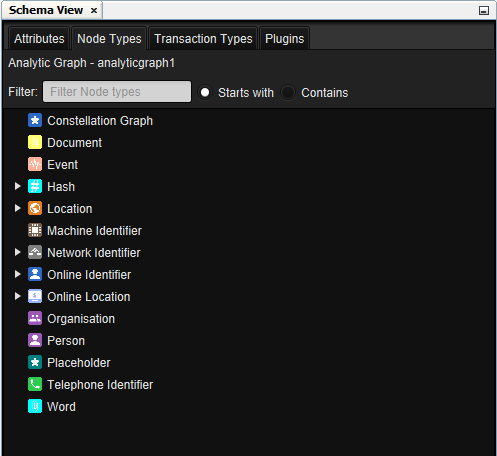
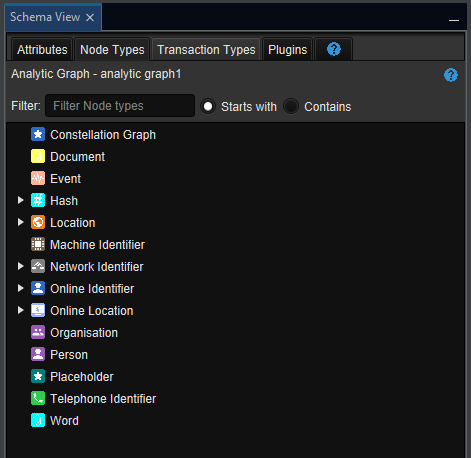
Update Schema View help pages

Changed region(s): [[0.0, 0.0, 1.0, 1.0]]

diff --git a/CoreSchemaView/src/au/gov/asd/tac/constellation/views/schemaview/providers/TransactionTypeNodeProvider.java b/CoreSchemaView/src/au/gov/asd/tac/constellation/views/schemaview/providers/TransactionTypeNodeProvider.java
@@ -24,6 +24,7 @@ import au.gov.asd.tac.constellation.graph.schema.concept.SchemaConcept;
 import au.gov.asd.tac.constellation.graph.schema.type.SchemaTransactionType;
 import au.gov.asd.tac.constellation.graph.schema.type.SchemaTransactionTypeUtilities;
 import au.gov.asd.tac.constellation.utilities.text.SeparatorConstants;
+import static au.gov.asd.tac.constellation.views.schemaview.providers.HelpIconProvider.populateHelpIconWithCaption;
 import java.util.ArrayList;
 import java.util.Collections;
 import java.util.List;
@@ -73,6 +74,7 @@ public class TransactionTypeNodeProvider implements SchemaViewNodeProvider, Grap
     private final HBox detailsView;
     private final RadioButton startsWithRb;
     private final TextField filterText;
+    private final HBox schemaLabelAndHelp;
 
     public TransactionTypeNodeProvider() {
         schemaLabel = new Label(SeparatorConstants.HYPHEN);
@@ -80,6 +82,7 @@ public class TransactionTypeNodeProvider implements SchemaViewNodeProvider, Grap
         treeView = new TreeView<>();
         transactionTypes = new ArrayList<>();
         detailsView = new HBox();
+        schemaLabelAndHelp = new HBox();
         detailsView.setPadding(new Insets(5));
         startsWithRb = new RadioButton("Starts with");
         filterText = new TextField();
@@ -167,7 +170,7 @@ public class TransactionTypeNodeProvider implements SchemaViewNodeProvider, Grap
         headerBox.setAlignment(Pos.CENTER_LEFT);
         headerBox.setPadding(new Insets(5));
 
-        final VBox box = new VBox(schemaLabel, headerBox, treeView);
+        final VBox box = new VBox(schemaLabelAndHelp, headerBox, treeView);
         VBox.setVgrow(treeView, Priority.ALWAYS);
         return box;
     }
@@ -208,6 +211,8 @@ public class TransactionTypeNodeProvider implements SchemaViewNodeProvider, Grap
     public void setContent(final Tab tab) {
         GraphManager.getDefault().addGraphManagerListener(this);
         final VBox filterBox = addFilter();
+
+        populateHelpIconWithCaption(this.getClass().getName(), "Transaction Types", schemaLabel, schemaLabelAndHelp);
 
         treeView.setShowRoot(false);
         treeView.getSelectionModel().selectedItemProperty().addListener(event -> {
@@ -280,7 +285,7 @@ public class TransactionTypeNodeProvider implements SchemaViewNodeProvider, Grap
             }
         });
 
-        final VBox contentBox = new VBox(schemaLabel, filterBox, treeView, detailsView);
+        final VBox contentBox = new VBox(schemaLabelAndHelp, filterBox, treeView, detailsView);
         VBox.setVgrow(treeView, Priority.ALWAYS);
         detailsView.prefHeightProperty().bind(contentBox.heightProperty().multiply(0.4));
         final StackPane contentNode = new StackPane(contentBox);

diff --git a/CoreSchemaView/src/au/gov/asd/tac/constellation/views/schemaview/providers/VertexTypeNodeProvider.java b/CoreSchemaView/src/au/gov/asd/tac/constellation/views/schemaview/providers/VertexTypeNodeProvider.java
@@ -24,6 +24,7 @@ import au.gov.asd.tac.constellation.graph.schema.concept.SchemaConcept;
 import au.gov.asd.tac.constellation.graph.schema.type.SchemaVertexType;
 import au.gov.asd.tac.constellation.graph.schema.type.SchemaVertexTypeUtilities;
 import au.gov.asd.tac.constellation.utilities.text.SeparatorConstants;
+import static au.gov.asd.tac.constellation.views.schemaview.providers.HelpIconProvider.populateHelpIconWithCaption;
 import java.util.ArrayList;
 import java.util.Collections;
 import java.util.HashMap;
@@ -88,6 +89,7 @@ public class VertexTypeNodeProvider implements SchemaViewNodeProvider, GraphMana
     private final Map<SchemaVertexType, Image> foregroundIcons;
     private final RadioButton startsWithRb;
     private final TextField filterText;
+    private HBox schemaLabelAndHelp;
 
     public VertexTypeNodeProvider() {
         schemaLabel = new Label(SeparatorConstants.HYPHEN);
@@ -95,6 +97,7 @@ public class VertexTypeNodeProvider implements SchemaViewNodeProvider, GraphMana
         treeView = new TreeView<>();
         vertexTypes = new ArrayList<>();
         detailsView = new HBox();
+        schemaLabelAndHelp = new HBox();
         detailsView.setPadding(new Insets(5));
         backgroundIcons = new HashMap<>();
         foregroundIcons = new HashMap<>();
@@ -210,7 +213,7 @@ public class VertexTypeNodeProvider implements SchemaViewNodeProvider, GraphMana
         headerBox.setAlignment(Pos.CENTER_LEFT);
         headerBox.setPadding(new Insets(5));
 
-        final VBox box = new VBox(schemaLabel, headerBox, treeView);
+        final VBox box = new VBox(schemaLabelAndHelp, headerBox, treeView);
         VBox.setVgrow(treeView, Priority.ALWAYS);
         return box;
     }
@@ -265,6 +268,8 @@ public class VertexTypeNodeProvider implements SchemaViewNodeProvider, GraphMana
     public void setContent(final Tab tab) {
         GraphManager.getDefault().addGraphManagerListener(this);
         final VBox filterBox = addFilter();
+
+        populateHelpIconWithCaption(this.getClass().getName(), "Node Types", schemaLabel, schemaLabelAndHelp);
 
         treeView.setShowRoot(false);
         treeView.setOnDragDetected(event -> {
@@ -393,7 +398,7 @@ public class VertexTypeNodeProvider implements SchemaViewNodeProvider, GraphMana
             }
         });
 
-        final VBox contentBox = new VBox(schemaLabel, filterBox, treeView, detailsView);
+        final VBox contentBox = new VBox(schemaLabelAndHelp, filterBox, treeView, detailsView);
         VBox.setVgrow(treeView, Priority.ALWAYS);
         detailsView.prefHeightProperty().bind(contentBox.heightProperty().multiply(0.4));
         final StackPane contentNode = new StackPane(contentBox);

diff --git a/CoreSchemaView/src/au/gov/asd/tac/constellation/views/schemaview/providers/HelpIconProvider.java b/CoreSchemaView/src/au/gov/asd/tac/constellation/views/schemaview/providers/HelpIconProvider.java
@@ -1,0 +1,53 @@
+/*
+ * Copyright 2010-2024 Australian Signals Directorate
+ *
+ * Licensed under the Apache License, Version 2.0 (the "License");
+ * you may not use this file except in compliance with the License.
+ * You may obtain a copy of the License at
+ *
+ *     http://www.apache.org/licenses/LICENSE-2.0
+ *
+ * Unless required by applicable law or agreed to in writing, software
+ * distributed under the License is distributed on an "AS IS" BASIS,
+ * WITHOUT WARRANTIES OR CONDITIONS OF ANY KIND, either express or implied.
+ * See the License for the specific language governing permissions and
+ * limitations under the License.
+ */
+package au.gov.asd.tac.constellation.views.schemaview.providers;
+
+import au.gov.asd.tac.constellation.utilities.color.ConstellationColor;
+import au.gov.asd.tac.constellation.utilities.icon.UserInterfaceIconProvider;
+import javafx.geometry.Insets;
+import javafx.scene.control.Button;
+import javafx.scene.control.Label;
+import javafx.scene.control.Tooltip;
+import javafx.scene.image.ImageView;
+import javafx.scene.layout.HBox;
+import javafx.scene.layout.Priority;
+import javafx.scene.layout.Region;
+import org.openide.util.HelpCtx;
+
+/**
+ *
+ * @author Auriga2
+ */
+public class HelpIconProvider {
+
+    public static Button populateHelpIcon(final String className, final String toolTipText) {
+        final ImageView helpImage = new ImageView(UserInterfaceIconProvider.HELP.buildImage(16, ConstellationColor.SKY.getJavaColor()));
+        final Button helpButton = new Button("", helpImage);
+        helpButton.setStyle("-fx-border-color: transparent; -fx-background-color: transparent; -fx-effect: null; ");
+        helpButton.paddingProperty().set(new Insets(0, 8, 0, 0));
+        helpButton.setTooltip(new Tooltip("Display help for " + toolTipText));
+        helpButton.setOnAction(event -> new HelpCtx(className).display());
+
+        return helpButton;
+    }
+
+    public static void populateHelpIconWithCaption(final String className, final String toolTipText, final Label caption, final HBox schemaLabelAndHelp) {
+        final Region spacer = new Region();
+        HBox.setHgrow(spacer, Priority.ALWAYS);
+        final Button helpButton = HelpIconProvider.populateHelpIcon(className, toolTipText);
+        schemaLabelAndHelp.getChildren().addAll(caption, spacer, helpButton);
+    }
+}

diff --git a/CoreSchemaView/src/au/gov/asd/tac/constellation/views/schemaview/providers/AttributeNodeProvider.java b/CoreSchemaView/src/au/gov/asd/tac/constellation/views/schemaview/providers/AttributeNodeProvider.java
@@ -27,6 +27,7 @@ import au.gov.asd.tac.constellation.graph.schema.concept.SchemaConcept;
 import au.gov.asd.tac.constellation.graph.schema.concept.SchemaConceptUtilities;
 import au.gov.asd.tac.constellation.utilities.icon.UserInterfaceIconProvider;
 import au.gov.asd.tac.constellation.utilities.text.SeparatorConstants;
+import static au.gov.asd.tac.constellation.views.schemaview.providers.HelpIconProvider.populateHelpIconWithCaption;
 import java.util.ArrayList;
 import java.util.Collection;
 import java.util.HashMap;
@@ -78,6 +79,7 @@ public class AttributeNodeProvider implements SchemaViewNodeProvider, GraphManag
     private final Label schemaLabel;
     private final TableView<AttributeEntry> table;
     private final ObservableList<AttributeEntry> attributeInfo;
+    private HBox schemaLabelAndHelp;
 
     public AttributeNodeProvider() {
         schemaLabel = new Label(SeparatorConstants.HYPHEN);
@@ -86,12 +88,15 @@ public class AttributeNodeProvider implements SchemaViewNodeProvider, GraphManag
         table = new TableView<>();
         table.setItems(attributeInfo);
         table.setPlaceholder(new Label("No schema available"));
+        schemaLabelAndHelp = new HBox();
     }
 
     @Override
     public void setContent(final Tab tab) {
         GraphManager.getDefault().addGraphManagerListener(this);
         newActiveGraph(GraphManager.getDefault().getActiveGraph());
+
+        populateHelpIconWithCaption(this.getClass().getName(), "Attributes", schemaLabel, schemaLabelAndHelp);
 
         final TextField filterText = new TextField();
         filterText.setPromptText("Filter attribute names");
@@ -113,7 +118,7 @@ public class AttributeNodeProvider implements SchemaViewNodeProvider, GraphManag
         headerBox.setAlignment(Pos.CENTER_LEFT);
         headerBox.setPadding(new Insets(5));
 
-        final VBox box = new VBox(schemaLabel, headerBox, table);
+        final VBox box = new VBox(schemaLabelAndHelp, headerBox, table);
         VBox.setVgrow(table, Priority.ALWAYS);
 
         Platform.runLater(() -> tab.setContent(box));

diff --git a/CoreSchemaView/src/au/gov/asd/tac/constellation/views/schemaview/SchemaViewPane.java b/CoreSchemaView/src/au/gov/asd/tac/constellation/views/schemaview/SchemaViewPane.java
@@ -16,13 +16,18 @@
 package au.gov.asd.tac.constellation.views.schemaview;
 
 import au.gov.asd.tac.constellation.utilities.threadpool.ConstellationGlobalThreadPool;
+import au.gov.asd.tac.constellation.views.schemaview.providers.HelpIconProvider;
 import au.gov.asd.tac.constellation.views.schemaview.providers.SchemaViewNodeProvider;
 import java.util.Collection;
 import java.util.concurrent.Executor;
 import javafx.application.Platform;
+import javafx.geometry.Pos;
+import javafx.scene.control.Button;
 import javafx.scene.control.Tab;
 import javafx.scene.control.TabPane;
 import javafx.scene.layout.BorderPane;
+import javafx.scene.layout.HBox;
+import org.openide.util.HelpCtx;
 import org.openide.util.Lookup;
 
 /**
@@ -52,7 +57,22 @@ public class SchemaViewPane extends BorderPane {
 
                 pool.execute(() -> provider.setContent(tab));
             });
+            schemaViewTabPane.getTabs().add(tabWIthHelpButton(schemaViewTabPane));
         });
+    }
+
+    // Tab that acts as a button and loads the help page
+    private Tab tabWIthHelpButton(final TabPane tabPane) {
+        final Button helpButton = HelpIconProvider.populateHelpIcon(SchemaViewTopComponent.class.getName(), "Schema View");
+        helpButton.setOnAction(event -> new HelpCtx(SchemaViewTopComponent.class.getName()).display());
+
+        final Tab helpTab = new Tab();
+        final HBox hbox = new HBox(helpButton);
+        hbox.setAlignment(Pos.TOP_RIGHT);
+        helpTab.setGraphic(hbox);
+        helpTab.setClosable(false);
+        tabPane.getTabs().add(helpTab);
+        return helpTab;
     }
 
     public void clear() {

diff --git a/CoreSchemaView/src/au/gov/asd/tac/constellation/views/schemaview/providers/PluginsNodeProvider.java b/CoreSchemaView/src/au/gov/asd/tac/constellation/views/schemaview/providers/PluginsNodeProvider.java
@@ -202,6 +202,8 @@ public class PluginsNodeProvider implements SchemaViewNodeProvider {
         exportPluginsButton.setGraphic(new ImageView(UserInterfaceIconProvider.DOWNLOAD.buildImage(16, ConstellationColor.CLOUDS.getJavaColor())));
         exportPluginsButton.setOnAction(action -> exportPluginsToCsv(tab.getContent().getScene().getWindow()));
 
+        final Button helpButton = HelpIconProvider.populateHelpIcon(this.getClass().getName(), "Plugins");
+
         Platform.runLater(() -> {
             pane.setAlignment(Pos.TOP_RIGHT);
 
@@ -209,9 +211,10 @@ public class PluginsNodeProvider implements SchemaViewNodeProvider {
             scrollPane.setContent(pluginList);
             scrollPane.setFitToWidth(true);
 
-            pane.getChildren().add(exportPluginsButton);
-            pane.getChildren().add(scrollPane);
-
+            final HBox hbox = new HBox();
+            hbox.setAlignment(Pos.TOP_RIGHT);
+            hbox.getChildren().addAll(helpButton, exportPluginsButton);
+            pane.getChildren().addAll(hbox, scrollPane);
             tab.setContent(pane);
         });
     }

diff --git a/CoreSchemaView/src/au/gov/asd/tac/constellation/views/schemaview/SchemaViewHelpProvider.java b/CoreSchemaView/src/au/gov/asd/tac/constellation/views/schemaview/SchemaViewHelpProvider.java
@@ -46,6 +46,10 @@ public class SchemaViewHelpProvider extends HelpPageProvider {
                 + SEP + "tac" + SEP + CODEBASE_NAME + SEP + "views" + SEP + "schemaview" + SEP;
 
         map.put("au.gov.asd.tac.constellation.views.schemaview.SchemaViewTopComponent", schemaModulePath + "schema-view.md");
+        map.put("au.gov.asd.tac.constellation.views.schemaview.providers.AttributeNodeProvider", schemaModulePath + "schema-view-attributes.md");
+        map.put("au.gov.asd.tac.constellation.views.schemaview.providers.VertexTypeNodeProvider", schemaModulePath + "schema-view-node-types.md");
+        map.put("au.gov.asd.tac.constellation.views.schemaview.providers.TransactionTypeNodeProvider", schemaModulePath + "schema-view-transaction-types.md");
+        map.put("au.gov.asd.tac.constellation.views.schemaview.providers.PluginsNodeProvider", schemaModulePath + "schema-view-plugins.md");
         return map;
     }
 

diff --git a/CoreSchemaView/release/modules/ext/docs/CoreSchemaView/src/au/gov/asd/tac/constellation/views/schemaview/schema-view.md b/CoreSchemaView/release/modules/ext/docs/CoreSchemaView/src/au/gov/asd/tac/constellation/views/schemaview/schema-view.md
@@ -40,33 +40,6 @@ View" />
 
 </div>
 
-## Attributes
-
-From the Attributes tab of the Schema View, you are able to view the key
-information for all of the attributes in the schema. For each attribute,
-you can view the attribute type, attribute name, data type, and
-description. The attribute type is identified by the icon next to the
-attribute name:
-
--   Node - <img src="../ext/docs/CoreSchemaView/src/au/gov/asd/tac/constellation/views/schemaview/resources/SchemaNodeAttribute.png" alt="Node Attribute
-    Icon" />
--   Transaction - <img src="../ext/docs/CoreSchemaView/src/au/gov/asd/tac/constellation/views/schemaview/resources/SchemaTransactionAttribute.png" alt="Transaction Attribute
-    Icon" />
--   Graph - <img src="../ext/docs/CoreSchemaView/src/au/gov/asd/tac/constellation/views/schemaview/resources/SchemaGraphAttribute.png" alt="Graph Attribute
-    Icon" />
--   Meta - <img src="../ext/docs/CoreSchemaView/src/au/gov/asd/tac/constellation/views/schemaview/resources/SchemaMetaAttribute.png" alt="Meta Attribute
-    Icon" />
-
-## Types
-
-From the Node Types tab of the Schema View, you are able to view all the
-key information for all different node types in the schema. Information
-available can include name, description, where it sits in the hierarchy
-of types, and any regular expressions that may be used for detection or
-validation.
-
-Similar information is available for transactions from the Transaction
-Types tab of the Schema View.
 
 ## Filtering
 
@@ -75,14 +48,3 @@ Types tabs to help look for particular values. Simply type in a search
 term into the Filter text field at the top of relevant tab and choose
 whether filter on values that start with or contains the search term.
 
-## Plugins
-
-From the Plugins tab of the Schema View, you can view all the plugins
-available to users. This is particularly useful for users accessing
-Constellation programmatically (e.g. via the REST API). Expanding a
-plugin will provide details on the plugin name, alias, and important
-details for all associated parameters.
-
-The full list of plugins (and their associated details) can also be
-exported to a CSV file via the button in the top right corner of the
-tab.

diff --git a/CoreSchemaView/release/modules/ext/docs/CoreSchemaView/src/au/gov/asd/tac/constellation/views/schemaview/schema-view-attributes.md b/CoreSchemaView/release/modules/ext/docs/CoreSchemaView/src/au/gov/asd/tac/constellation/views/schemaview/schema-view-attributes.md
@@ -1,0 +1,21 @@
+# Attributes
+
+From the Attributes tab of the Schema View, you are able to view the key
+information for all of the attributes in the schema. For each attribute,
+you can view the attribute type, attribute name, data type, and
+description etc. 
+
+The attribute type is identified by the icon next to the
+attribute name:
+
+-   Node - <img src="../ext/docs/CoreSchemaView/src/au/gov/asd/tac/constellation/views/schemaview/resources/SchemaNodeAttribute.png" alt="Node Attribute
+    Icon" />
+-   Transaction - <img src="../ext/docs/CoreSchemaView/src/au/gov/asd/tac/constellation/views/schemaview/resources/SchemaTransactionAttribute.png" alt="Transaction Attribute
+    Icon" />
+-   Graph - <img src="../ext/docs/CoreSchemaView/src/au/gov/asd/tac/constellation/views/schemaview/resources/SchemaGraphAttribute.png" alt="Graph Attribute
+    Icon" />
+-   Meta - <img src="../ext/docs/CoreSchemaView/src/au/gov/asd/tac/constellation/views/schemaview/resources/SchemaMetaAttribute.png" alt="Meta Attribute
+    Icon" />
+
+
+<img src="../ext/docs/CoreSchemaView/src/au/gov/asd/tac/constellation/views/schemaview/resources/AttributesSchema.png" alt="Attributes" />

diff --git a/CoreSchemaView/release/modules/ext/docs/CoreSchemaView/src/au/gov/asd/tac/constellation/views/schemaview/schema-view-plugins.md b/CoreSchemaView/release/modules/ext/docs/CoreSchemaView/src/au/gov/asd/tac/constellation/views/schemaview/schema-view-plugins.md
@@ -1,0 +1,13 @@
+# Plugins
+
+From the Plugins tab of the Schema View, you can view all the plugins
+available to users. This is particularly useful for users accessing
+Constellation programmatically (e.g. via the REST API). Expanding a
+plugin will provide details on the plugin name, alias, and important
+details for all associated parameters.
+
+The full list of plugins (and their associated details) can also be
+exported to a CSV file via the button in the top right corner of the
+tab.
+
+<img src="../ext/docs/CoreSchemaView/src/au/gov/asd/tac/constellation/views/schemaview/resources/Plugins.png" alt="Plugins" />

diff --git a/CoreSchemaView/release/modules/ext/docs/CoreSchemaView/src/au/gov/asd/tac/constellation/views/schemaview/schema-view-transaction-types.md b/CoreSchemaView/release/modules/ext/docs/CoreSchemaView/src/au/gov/asd/tac/constellation/views/schemaview/schema-view-transaction-types.md
@@ -1,0 +1,11 @@
+
+# Transaction Types
+
+From the Transaction Types tab of the Schema View, you are able to view all the
+key information for all different Transaction types in the schema. 
+
+Information available can include name, description, where it sits in the hierarchy
+of types, and any regular expressions that may be used for detection or
+validation.
+
+<img src="../ext/docs/CoreSchemaView/src/au/gov/asd/tac/constellation/views/schemaview/resources/TransactionTypes.png" alt="Transaction Types" />

diff --git a/CoreSchemaView/release/modules/ext/docs/CoreSchemaView/src/au/gov/asd/tac/constellation/views/schemaview/schema-view-node-types.md b/CoreSchemaView/release/modules/ext/docs/CoreSchemaView/src/au/gov/asd/tac/constellation/views/schemaview/schema-view-node-types.md
@@ -1,0 +1,10 @@
+# Node Types
+
+From the Node Types tab of the Schema View, you are able to view all the
+key information for all different node types in the schema. 
+
+Information available can include name, description, where it sits in the hierarchy
+of types, and any regular expressions that may be used for detection or
+validation.
+
+<img src="../ext/docs/CoreSchemaView/src/au/gov/asd/tac/constellation/views/schemaview/resources/NodeTypes.png" alt="Node Types" />
